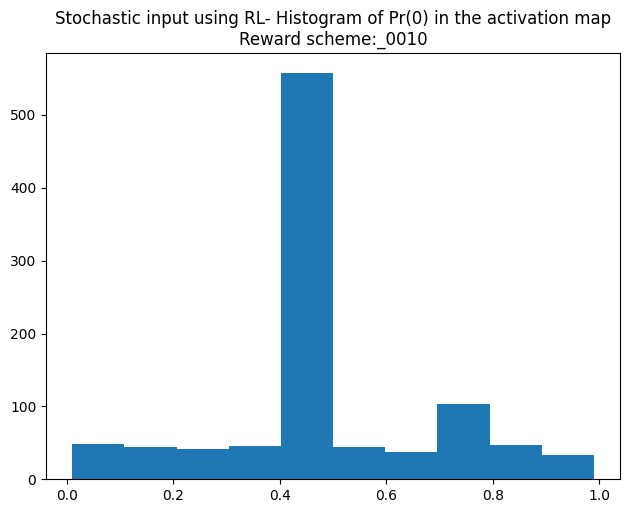
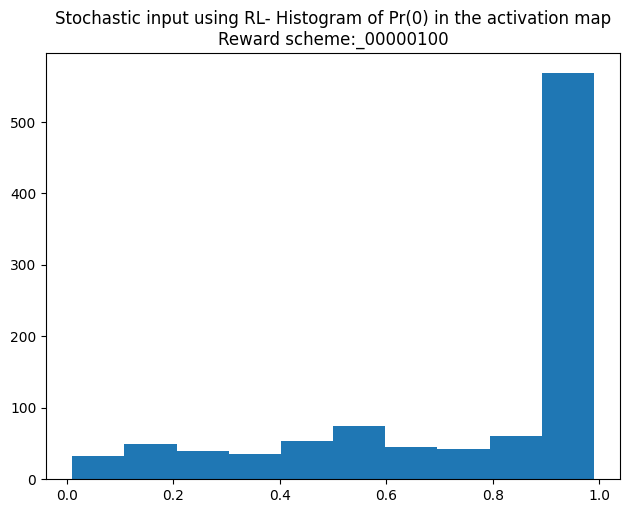
Added set coverage for decompressor

diff --git a/RLE_decompressor/tb_with_rl/RLE_decompressor_probability_random/test_probability_random_rle_decompression.py b/RLE_decompressor/tb_with_rl/RLE_decompressor_probability_random/test_probability_random_rle_decompression.py
@@ -7,6 +7,7 @@ from collections import defaultdict
 
 coverage = []
 total_coverage = []
+total_set_coverage = []
 count_width = 6
 word_width = 4
 random.seed(1)
@@ -163,16 +164,17 @@ def run_test(dut):
             input_list.append(compressed_word_vec)
         # print(input_list)
         input_list.insert(0, input_list.pop(first_compressed_zero_idx))
+        print(input_list)
 
         ##Initial compressed input alone will have details of word width and count width
-        compressed_input = input_list[0]
-        for n2 in range(1, len(input_list)):
+        # input_list = [13908259987590759268, 5466339630142750055, 7708008654023722417, 13711433221677006084, 4791302593951332211, 297309096011432976, 12804395393502841569, 17160679680036653830, 3696519104342578997, 2325550866100392001, 17597997525760624910, 5843402158363911501, 17183764384036183007, 4829002859638981380, 8450570782378548667, 557071639388608969, 297522366668538896, 11045939112885484732, 13137551342047707595, 15582317614200405168, 3477069253226807425, 5742721319435764721, 4284827710540203280, 2603391325574209430, 145294693537693956, 11380606908143380531, 17972173053635191860, 581036954334987297, 9376578776570838914, 2255091308962467159, 6672892889147781230, 1207250718181834817, 3287439725080637815, 18268255891619857001, 1915831582312376255, 1161638398935816]
+        # input_list = [9368631043577398116, 2216776977775572170, 14301683823907461990, 15121658413985603301, 11948213363879247217, 581257939524850704, 2183256803474030594, 9779846399426106866, 268734901004314769, 2360453622603452609, 17384146028894171654, 5107697065764309873, 7179854534921886875, 4684889037429817604, 16462430396108157943, 12153119009882216616, 293099065720318992, 18093367915201532687, 15838585278011049037, 10053140081791194139, 4629986359788179714, 17202326133095786986, 7074750978420750278, 11019334811863768481, 4687191977688581892, 4164206021795012246, 2249524958253636221, 585614273313575968, 14403408446759471993, 2756744041155459975, 9012741384553755700, 1171516520468320450, 16532561956772814059, 147720, 2699922016]
+        for compressed_input in input_list:
             if(dut.RDY_ma_get_inputs != 1):
                 yield RisingEdge(dut.RDY_ma_get_inputs)
             yield tb.input_drv.send(InputTransaction(tb,1,compressed_input))
             yield tb.input_drv.send(InputTransaction(tb,0,0))
-            ##Input Randomisation
-            compressed_input = input_list[n2]
+            # compressed_input = input_list[n2]
             yield RisingEdge(dut.CLK)
             yield RisingEdge(dut.CLK)
 
@@ -187,6 +189,9 @@ def run_test(dut):
 
         # process coverage of this episode here
         total_coverage.extend(coverage)
+        set_coverage = list(set(coverage))
+        print('set coverage:', set_coverage)
+        total_set_coverage.extend(set_coverage)
 
     tb.stop()
     yield RisingEdge(dut.CLK)
@@ -195,20 +200,28 @@ def run_test(dut):
     from collections import Counter
     labels = list(Counter(total_coverage).keys()) # equals to list(set(words))
     counts = list(Counter(total_coverage).values()) # counts the elements' frequency
-    print(labels)
-    print(counts)
-    # remove 00000001 for plotting
-    for p in range(len(labels)):
-        if labels[p] == '00000001':
-            labels.pop(p)
-            counts.pop(p)
-            break
+    print('Coverage histogram')
+    for c in range(len(labels)):
+        print(labels[c], counts[c])
+
     plt.vlines(labels, 0, counts, color='C0', lw=4)
     plt.grid()
     plt.xticks(rotation = 90)
     plt.tight_layout()
-    # plt.hist(state_list)
     plt.title("Histogram of covered states\n")
-    # plt.savefig('./hist_of_coverage' + suffix + '.png', bbox_inches='tight')
     plt.savefig('./hist_of_coverage' + suffix + '.png', bbox_inches='tight')
+    plt.close()
+
+    total_set_coverage.sort()
+    labels = list(Counter(total_set_coverage).keys()) # equals to list(set(words))
+    counts = list(Counter(total_set_coverage).values()) # counts the elements' frequency
+    print('Set coverage histogram')
+    for c in range(len(labels)):
+        print(labels[c], counts[c])
+    plt.vlines(labels, 0, counts, color='C0', lw=4)
+    plt.grid()
+    plt.xticks(rotation = 90)
+    plt.tight_layout()
+    plt.title("Histogram of set of covered states\n")
+    plt.savefig('./hist_of_set_coverage' + suffix + '.png', bbox_inches='tight')
     plt.close()

diff --git a/RLE_decompressor/tb_with_rl/RLE_decompressor_probability_RL/test_probability_rl_rle_decompression.py b/RLE_decompressor/tb_with_rl/RLE_decompressor_probability_RL/test_probability_rl_rle_decompression.py
@@ -16,6 +16,7 @@ print(device)
 
 coverage = []
 total_coverage = []
+total_set_coverage = []
 count_width = 6
 word_width = 4
 random.seed(1)
@@ -108,7 +109,7 @@ def run_test(dut):
     N = 400
 
     suffix = "_N=" + str(N) + ",numEps=" + str(NUM_EPISODES) + ",word_w=" + str(word_width) + ",count_w=" + str(count_width)
-    suffix1 = "_0010"
+    suffix1 = "_00000010"
     Q_val_list = []
 
     # suffix = "_m=" + str(M) + ",numEps=" + str(NUM_EPISODES)
@@ -211,13 +212,13 @@ def run_test(dut):
 
         ##Initial compressed input alone will have details of word width and count width
         compressed_input = input_list[0]
-        for n2 in range(1, len(input_list)):
+        for compressed_input in input_list:
             if(dut.RDY_ma_get_inputs != 1):
                 yield RisingEdge(dut.RDY_ma_get_inputs)
             yield tb.input_drv.send(InputTransaction(tb,1,compressed_input))
             yield tb.input_drv.send(InputTransaction(tb,0,0))
             ##Input Randomisation
-            compressed_input = input_list[n2]
+            # compressed_input = input_list[n2]
             yield RisingEdge(dut.CLK)
             yield RisingEdge(dut.CLK)
 
@@ -236,6 +237,7 @@ def run_test(dut):
         set_coverage = list(dict.fromkeys(coverage))
 
         print("last coverage: ", set_coverage)
+        total_set_coverage.extend(set_coverage)
 
         reward = get_reward_based_on_states_visited(set_coverage)
         print("reward: ", reward)
@@ -309,23 +311,37 @@ def run_test(dut):
     from collections import Counter
     labels = list(Counter(total_coverage).keys()) # equals to list(set(words))
     counts = list(Counter(total_coverage).values()) # counts the elements' frequency
-
-    # remove 00000001 for plotting
-    for p in range(len(labels)):
-        if labels[p] == '00000001':
-            labels.pop(p)
-            counts.pop(p)
-            break
-
+    print('Coverage histogram')
+    for c in range(len(labels)):
+        print(labels[c], counts[c])
+    # # remove 00000001 for plotting
+    # for p in range(len(labels)):
+    #     if labels[p] == '00000001':
+    #         labels.pop(p)
+    #         counts.pop(p)
+    #         break
     plt.vlines(labels, 0, counts, color='C0', lw=4)
     plt.grid()
     plt.xticks(rotation = 90)
     plt.tight_layout()
-    # plt.hist(state_list)
     plt.title("Histogram of covered states\n")
-    # plt.savefig('./hist_of_coverage' + suffix + '.png', bbox_inches='tight')
-    plt.savefig('./hist_of_coverage' + suffix + '.png', bbox_inches='tight')
+    plt.savefig('./hist_of_coverage' +suffix1+ suffix + '.png', bbox_inches='tight')
     plt.close()
+
+    total_set_coverage.sort()
+    labels = list(Counter(total_set_coverage).keys()) # equals to list(set(words))
+    counts = list(Counter(total_set_coverage).values()) # counts the elements' frequency
+    print('Set coverage histogram')
+    for c in range(len(labels)):
+        print(labels[c], counts[c])
+    plt.vlines(labels, 0, counts, color='C0', lw=4)
+    plt.grid()
+    plt.xticks(rotation = 90)
+    plt.tight_layout()
+    plt.title("Histogram of set of covered states\n")
+    plt.savefig('./hist_of_set_coverage' +suffix1+ suffix + '.png', bbox_inches='tight')
+    plt.close()
+
 
 def get_action(curr_state, net, action_tensor, steps_done):
     """
@@ -357,6 +373,6 @@ def get_action(curr_state, net, action_tensor, steps_done):
 def get_reward_based_on_states_visited(coverage):
     reward = 0
     for visited_state in coverage:
-        if(visited_state == '00000100'):
+        if(visited_state == '00000010'):
             reward += 10
     return reward
